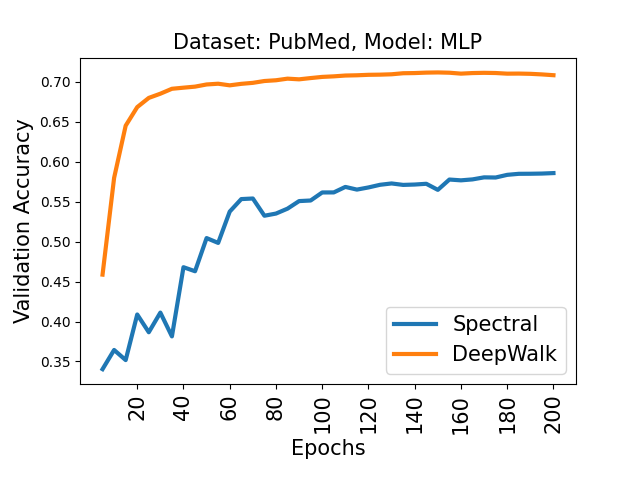
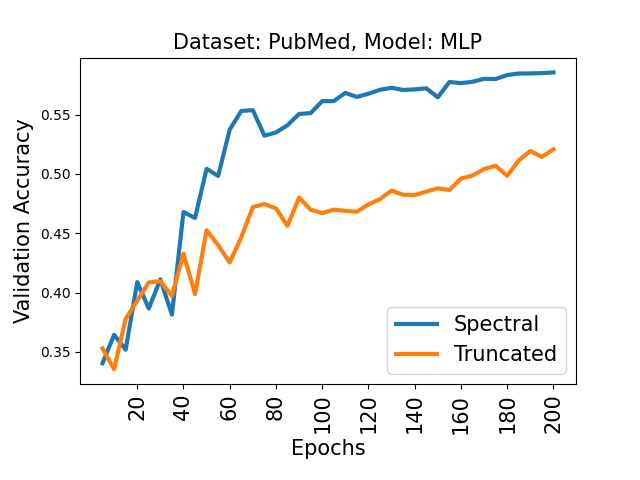
Fixed bug in truncated simple graphs where deepwalk was being used

diff --git a/create_SimpleGraphs_truncated_spec_MLP.py b/create_SimpleGraphs_truncated_spec_MLP.py
@@ -10,9 +10,9 @@ model_name = ["spectrumMLP"]
 
 different_model_name = "MLP"
 
-embedding_list = ["non-symmetric","deepwalk"]
+embedding_list = ["non-symmetric","truncated-spectral"]
 
-different_embed_names = ["Spectral", "DeepWalk"]
+different_embed_names = ["Spectral", "Truncated"]
 
 combined_name = "truncated_spec"
 
@@ -35,15 +35,26 @@ for dataset in dataset_name:
                 avg_valid_acc = []
                 avg_test_acc = []
                 for experiment_number in range(num_experiments):
-                    with open(f"{root_dir}"+"/Results/"+f"highest_Validation_{dataset}_{model}.txt") as jsonFile:
-                        embed_validation_acc = []
-                        embed_test_acc = []
-                        data = json.load(jsonFile)
-                        for e in epochs:
-                            embed_validation_acc.append(data[coeff][embed][str(experiment_number+1)][e][0])
-                            embed_test_acc.append(data[coeff][embed][str(experiment_number+1)][e][1])
-                        avg_valid_acc.append(embed_validation_acc)
-                        avg_test_acc.append(embed_test_acc)
+                    if embed == "truncated-spectral":
+                        with open(f"{root_dir}"+"/Truncated_Results/"+f"highest_Validation_{dataset}_truncated_spectrumMLP_truncated_model_4.txt") as jsonFile:
+                            embed_validation_acc = []
+                            embed_test_acc = []
+                            data = json.load(jsonFile)
+                            for e in epochs:
+                                embed_validation_acc.append(data[coeff][embed][str(experiment_number+1)][e][0])
+                                embed_test_acc.append(data[coeff][embed][str(experiment_number+1)][e][1])
+                            avg_valid_acc.append(embed_validation_acc)
+                            avg_test_acc.append(embed_test_acc)
+                    else:
+                        with open(f"{root_dir}"+"/Results/"+f"highest_Validation_{dataset}_{model}.txt") as jsonFile:
+                            embed_validation_acc = []
+                            embed_test_acc = []
+                            data = json.load(jsonFile)
+                            for e in epochs:
+                                embed_validation_acc.append(data[coeff][embed][str(experiment_number+1)][e][0])
+                                embed_test_acc.append(data[coeff][embed][str(experiment_number+1)][e][1])
+                            avg_valid_acc.append(embed_validation_acc)
+                            avg_test_acc.append(embed_test_acc)
                 avg_valid_acc = [(sum(i)/num_experiments) for i in zip(*avg_valid_acc)]
                 avg_test_acc = [(sum(i)/num_experiments) for i in zip(*avg_test_acc)]
                 tracker = 5
